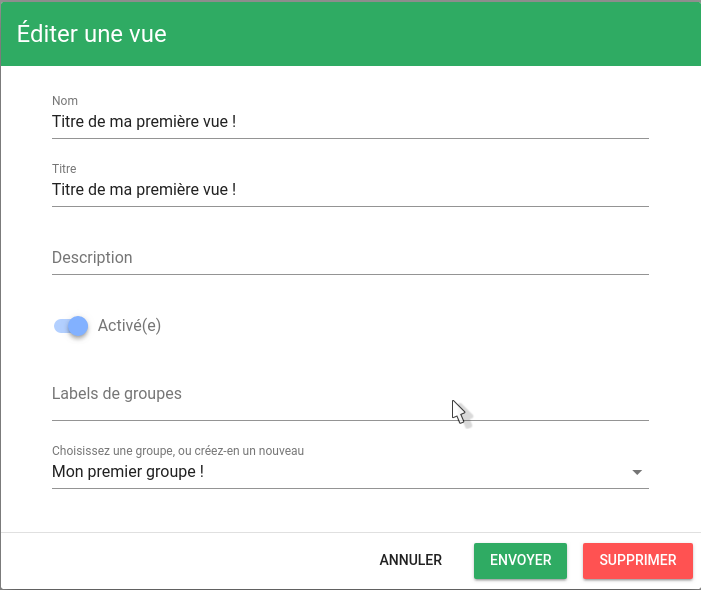
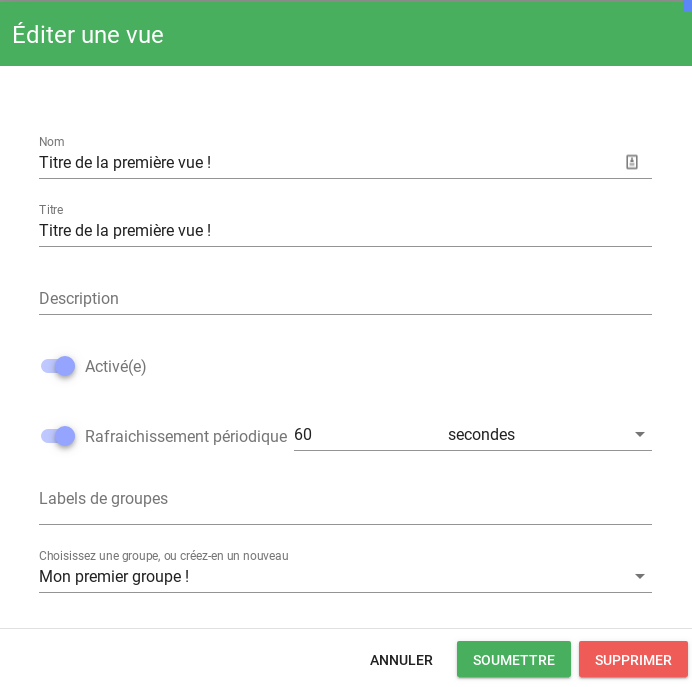
doc periodicrefresh

diff --git a/sources/docs/fr/guide-utilisation/interface/vues/index.md b/sources/docs/fr/guide-utilisation/interface/vues/index.md
@@ -15,6 +15,8 @@ Plusieurs informations concernant la vue sont demandées :
 * Titre (*requis*): Titre de la vue
 * Description: Description de la vue
 * Activée: La vue doit-elle être accessible, ou non ?
+* Rafraîchissement périodique : Les données de la vue doivent-elles être rafraîchies régulièrement ?
+![Rafraîchissement](./img/rafraîchissement_vues.gif  "Rafraîchissement des vues")
 * Labels de groupes: Labels permettant la classification
 * Groupe (*requis*): Groupe auquel la vue appartient. Le champ permet de rechercher parmi les groupes existants. Si aucun groupe n'est trouvé, appuyez sur la touche Entrée pour en créer un nouveau.
 
@@ -119,8 +121,12 @@ Au clic sur ce bouton, une fenêtre de confirmation s'ouvre. Cliquez sur "Oui" p
 
 **Attention: Tous les widgets à l'intérieur de l'onglet seront également supprimés**
 
+
 ## La suite...
 
-Une fois votre vue créée, il vous est possible d'y ajouter des widgets afin de commencer à utiliser l'application.
+Une fois votre vue créée, il vous est possible d'y ajouter des widgets afin de commencer à utiliser l'application.  
+
+!!! Note
+    Le rafraîchissement périodique des données de la vue est indépendant du rafraîchissement des widgets eux-mêmes.
 
 Voir : [Widgets](../index.md)
